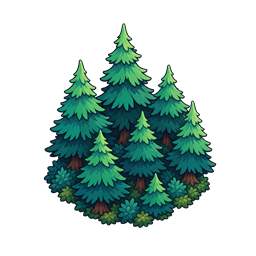
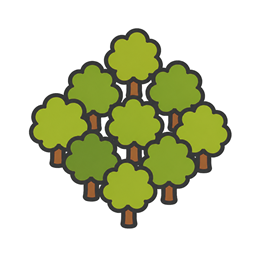
update

diff --git a/README.md b/README.md
@@ -28,22 +28,22 @@ Resource Isles should feel like a relaxing little evening game: calm, readable, 
 
 ### Asset Style
 
-Resource and building sprites should lean cartoony rather than painterly or realistic.
+Resource and building sprites should lean simple, cartoony, and board-game-like rather than painterly or realistic.
 
 - Use chunky, readable silhouettes that still work at normal zoom.
-- Favor bold simple shapes, soft highlights, and modest dark outlines.
-- Keep detail broad and graphic; avoid tiny leaves, noisy texture, or dense concept-art rendering.
-- Use teal greens, blue-green shadows, muted warm highlights, and calm earthy accents.
-- Sprites should feel like compact toy-like game pieces placed on the hex map.
+- Favor flat colors, bold simple shapes, and thick dark purple-brown outlines.
+- Keep detail broad and symbolic; avoid tiny leaves, noisy texture, gradients, soft rendering, or dense concept-art detail.
+- Use olive greens, yellow-greens, blue water, warm browns, muted oranges, and calm earthy accents.
+- Sprites should feel like compact sticker-like map tokens placed on the hex map.
 - Single-tile resources and buildings should fit within one tile of visual width. Tall sprites may extend upward, but should not spill sideways into neighboring hexes.
 - A resource tile can represent a larger concept than one object. For example, a forest tile should show a small cluster of trees, while still occupying one gameplay tile.
 - Generated assets should use transparent PNG output or a clean chroma-key background that can be removed.
 
 Current visual references:
 
-- `assets/resources/tree.png`: simple cartoony pine tree with teal-green branch layers.
-- `assets/resources/boulder.png`: clustered stone deposit with chunky faceted rocks and a dark outline.
-- `assets/resources/forest.png`: clustered forest tile with simplified pine shapes.
+- `assets/resources/forest.png`: flat symbolic tree cluster with thick dark outlines.
+- `assets/resources/stone.png`: flat symbolic stone cluster with thick dark outlines.
+- Reference screenshot style: simple board-game hex tiles with flat fills, heavy outlines, and icon-like terrain objects.
 
 ## Project Status
 
@@ -84,11 +84,11 @@ The project is configured as a Godot 4 project and currently uses the mobile ren
 The project now includes a code-driven hex-tile starter island scaffold:
 
 - `assets/tiles/tile.png` provides a shared white hex mask that terrain draws and tints in code, leaving decorative PNGs free to layer on top.
-- `assets/resources/tree.png`, `assets/resources/forest.png`, and `assets/resources/boulder.png` provide the first harvestable map resources.
+- `assets/resources/tree.png`, `assets/resources/forest.png`, and `assets/resources/stone.png` provide the first harvestable map resources.
 - `assets/buildings/crate.png`, `assets/buildings/dock.png`, and `assets/buildings/hub.png` provide the first placeable buildings.
 - `scripts/island/hex_grid.gd` provides pointy-top hex coordinates, neighbors, polygon points, and picking helpers.
 - `scripts/island/island_data.gd` stores island size, terrain cells, resources, and buildings.
-- `scripts/island/island_generator.gd` creates a small starter island from a seed and places two random trees and two random boulders.
+- `scripts/island/island_generator.gd` creates a small starter island from a seed and places two random forests and two random stones.
 - `scripts/island/island_renderer.gd` draws generated terrain, Y-sorted resources/buildings, hover highlighting, and placement preview.
 - `scripts/resources/resource_manager.gd` tracks current resource amounts.
 - `scripts/resources/resource_node_definition.gd` defines resource node properties such as footprint, visual bounds, extraction output, and extraction interval.
@@ -98,7 +98,7 @@ The project now includes a code-driven hex-tile starter island scaffold:
 - `scripts/ui/building_info_panel.gd` owns the building info UI shown when a placed building is clicked.
 - `scripts/main.gd` generates and displays the island when the game starts.
 
-Naming note: resource nodes are permanent map objects such as forests and stone deposits, while resources are stored inventory items such as wood and stone. For example, `IslandData.ResourceNodeType.TREE` extracts into `ResourceManager.ResourceType.WOOD` once per extraction interval.
+Naming note: resource nodes are permanent map objects such as forests and stones, while resources are stored inventory items such as wood and stone. For example, `IslandData.ResourceNodeType.TREE` extracts into `ResourceManager.ResourceType.WOOD` once per extraction interval.
 Building footprints can be larger than one tile. For example, crates occupy one hex while docks occupy a four-hex footprint.
 Each generated island starts with a required central hub. Buildings require resources to place. Crates cost 3 Wood, docks cost 10 Wood, and additional hubs cost 8 Wood plus 4 Stone.
 
@@ -106,7 +106,7 @@ Prototype controls:
 
 - **Left click**: place the selected building
 - **Left click on a building**: show building info
-- **Left click on a forest or stone deposit**: extract its resource when its extraction interval is ready
+- **Left click on a forest or stone**: extract its resource when its extraction interval is ready
 - **Buildings button**: open or close the building menu
 - **Esc**: clear the selected building
 - **Enter**: regenerate the island with the next seed
